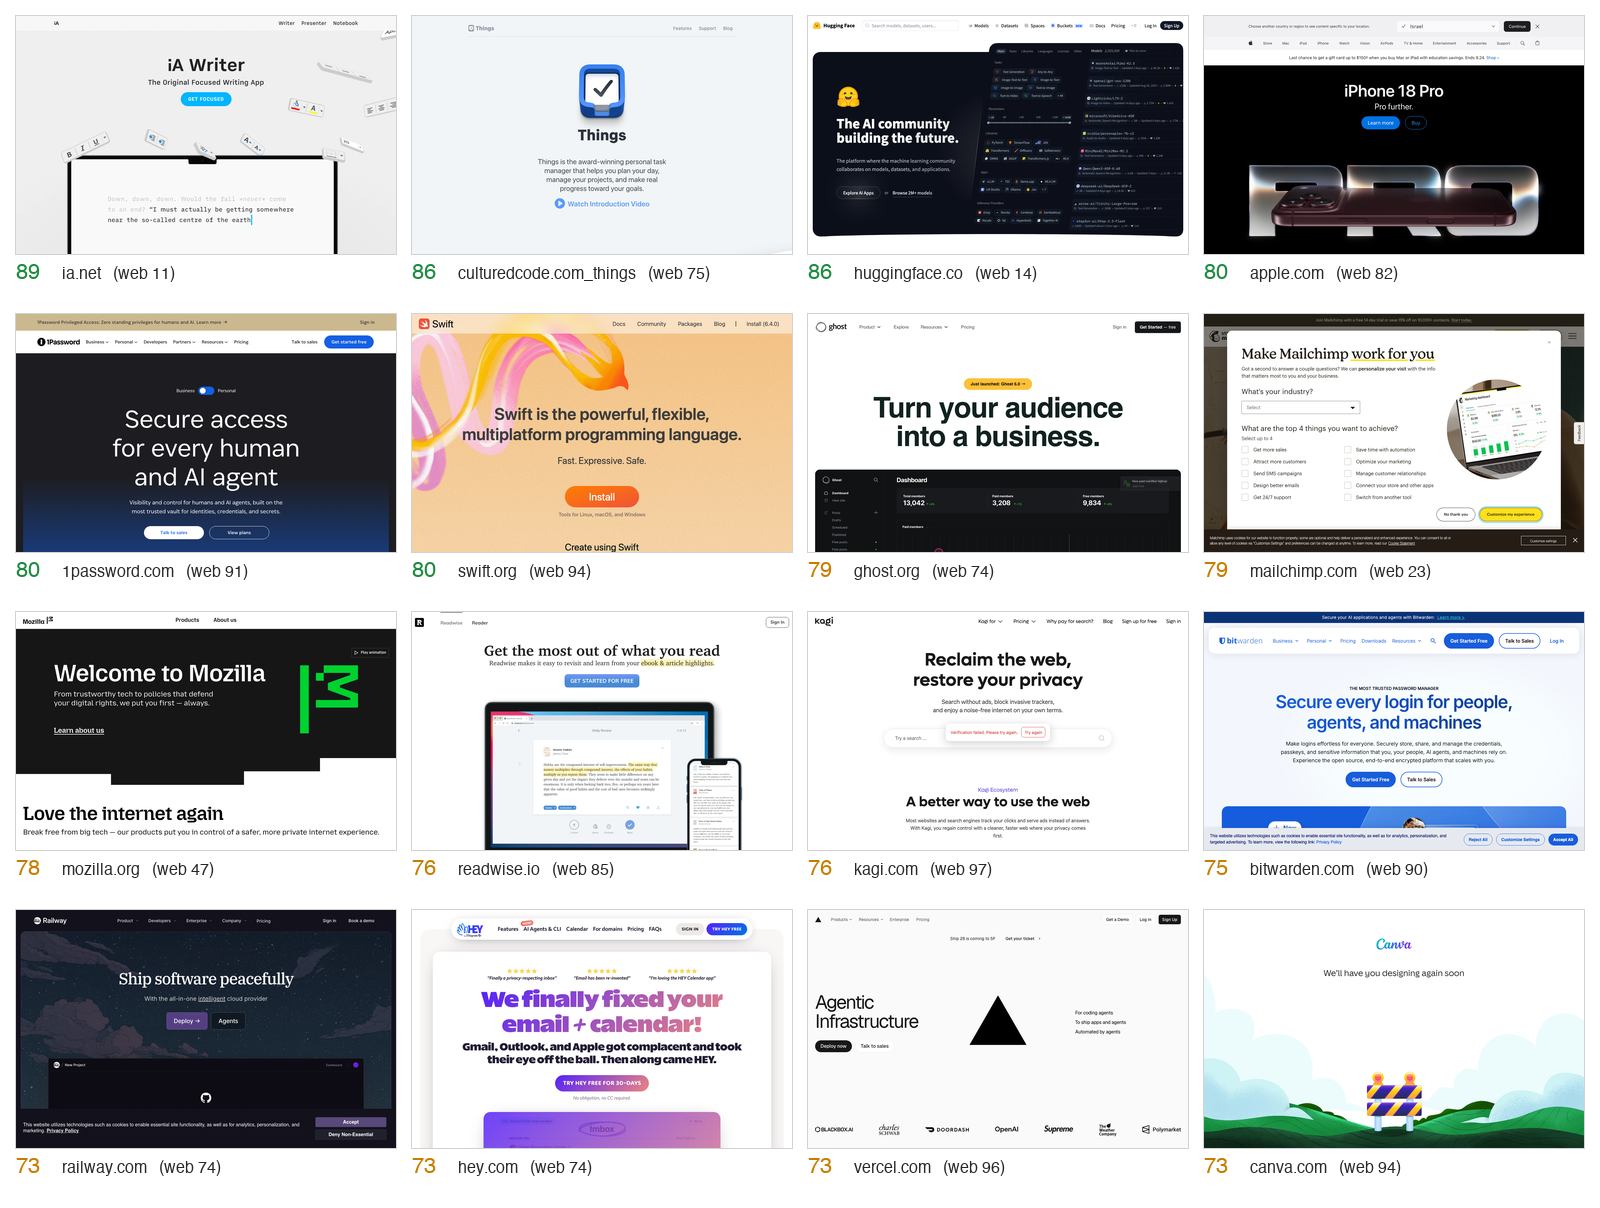
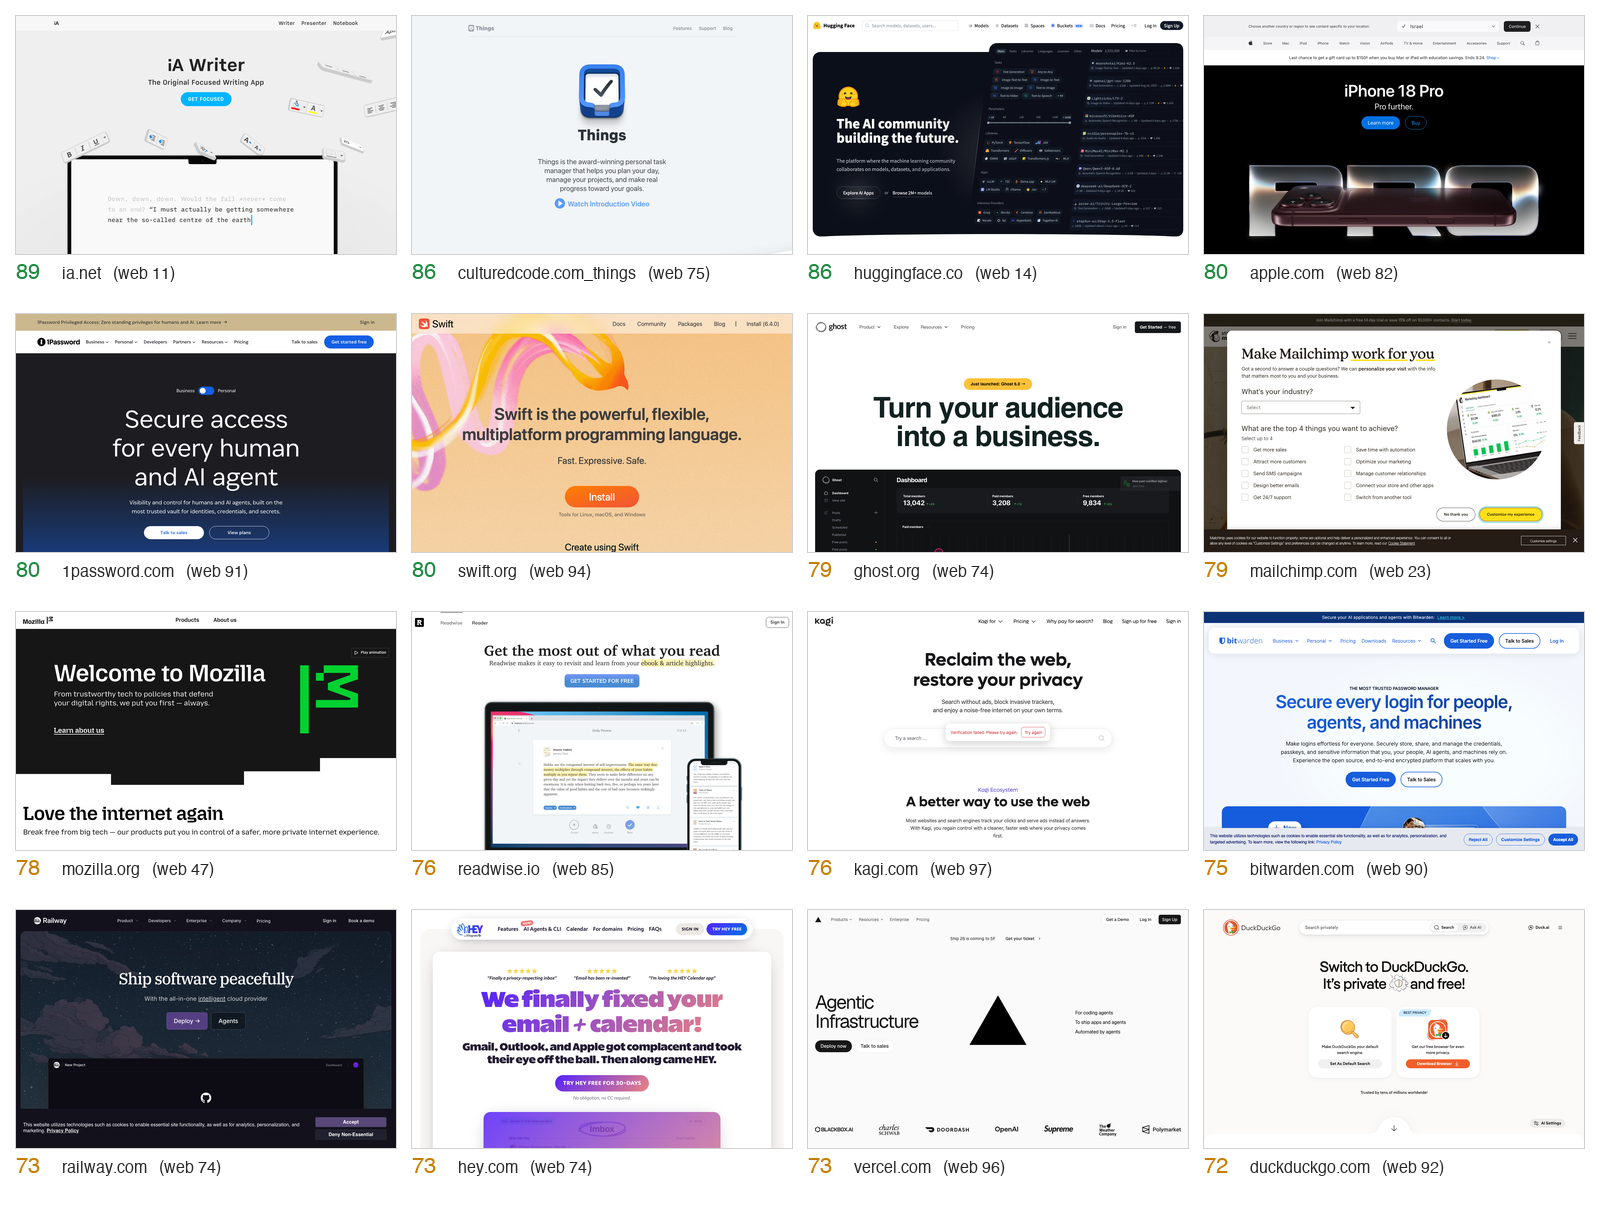
0.4.1: MCP stdio is UTF-8 on every platform; hall of fame drops a maintenance-page capture

Changed region(s): [[0.75, 0.7657, 1.0, 0.9801]]

diff --git a/demo/hall_of_fame.py b/demo/hall_of_fame.py
@@ -50,6 +50,7 @@ SKIP = {
     "medium.com": "bot wall ('you have been blocked')", "unsplash.com": "bot wall ('access denied')",
     "behance.net": "rate-limit page", "porsche.com_international": "consent dialog over the page",
     "awwwards.com": "consent dialog over the page", "openai.com": "blank capture",
+    "canva.com": "maintenance page",
 }
 COLS, TW, TH, PAD, LABEL_H, TOP_N = 4, 380, 238, 16, 44, 16
 FONTS = ["/System/Library/Fonts/Helvetica.ttc", "/usr/share/fonts/truetype/dejavu/DejaVuSans.ttf", "C:/Windows/Fonts/arial.ttf"]

diff --git a/beautiful/mcp_server.py b/beautiful/mcp_server.py
@@ -195,6 +195,9 @@ def _error(mid, code, message):
 
 
 def main() -> int:
+    for stream in (sys.stdin, sys.stdout):  # MCP is JSON over stdio: always UTF-8, whatever the console codepage
+        if hasattr(stream, "reconfigure"):
+            stream.reconfigure(encoding="utf-8", errors="replace")
     out = sys.stdout
     for line in sys.stdin:
         line = line.strip()

diff --git a/beautiful/__init__.py b/beautiful/__init__.py
@@ -3,4 +3,4 @@ from .core import beauty, beauty_score, WEIGHTS, MODES
 from .symmetry import symmetry_score, symmetry_report
 
 __all__ = ["beauty", "beauty_score", "symmetry_score", "symmetry_report", "WEIGHTS", "MODES"]
-__version__ = "0.4.0"
+__version__ = "0.4.1"

diff --git a/demo/results_hall_of_fame.md b/demo/results_hall_of_fame.md
@@ -1,4 +1,4 @@
-Rendered 2026-09-19 with headless Chromium at 1280×800 (`beautiful.render`), 72 of 79 candidates loaded. Sorted by the `ui` formula; `web` is the calibrated model.
+Rendered 2026-09-19 with headless Chromium at 1280×800 (`beautiful.render`), 71 of 79 candidates loaded. Sorted by the `ui` formula; `web` is the calibrated model.
 
 | ui | web | site | composition | alignment | simplicity | whitespace | harmony | colorfulness | contrast |
 |---:|---:|---|---:|---:|---:|---:|---:|---:|---:|
@@ -17,7 +17,6 @@ Rendered 2026-09-19 with headless Chromium at 1280×800 (`beautiful.render`), 72
 | **73** | 74 | railway.com | 0.69 | 0.36 | 0.51 | 0.87 | 0.94 | 0.89 | 0.88 |
 | **73** | 74 | hey.com | 0.77 | 0.30 | 0.34 | 0.92 | 0.86 | 0.83 | 1.00 |
 | **73** | 96 | vercel.com | 0.76 | 0.17 | 0.94 | 0.11 | 1.00 | 0.73 | 1.00 |
-| **73** | 94 | canva.com | 0.68 | 0.26 | 0.77 | 0.66 | 0.80 | 0.91 | 0.74 |
 | **72** | 92 | duckduckgo.com | 0.74 | 0.21 | 0.87 | 0.13 | 1.00 | 0.98 | 1.00 |
 | **70** | 94 | clerk.com | 0.78 | 0.17 | 0.60 | 0.36 | 1.00 | 0.78 | 1.00 |
 | **69** | 90 | loom.com | 0.77 | 0.17 | 0.23 | 0.97 | 0.91 | 0.69 | 1.00 |
@@ -75,4 +74,4 @@ Rendered 2026-09-19 with headless Chromium at 1280×800 (`beautiful.render`), 72
 | **27** | 100 | remix.run | 0.55 | 0.12 | 0.00 | 0.14 | 0.82 | 0.56 | 0.74 |
 | **25** | 85 | posthog.com | 0.33 | 0.24 | 0.02 | 0.01 | 0.84 | 0.90 | 1.00 |
 
-Skipped (the capture was not the page): medium.com (bot wall ('you have been blocked')), unsplash.com (bot wall ('access denied')), behance.net (rate-limit page), porsche.com_international (consent dialog over the page), awwwards.com (consent dialog over the page), openai.com (blank capture)
+Skipped (the capture was not the page): medium.com (bot wall ('you have been blocked')), unsplash.com (bot wall ('access denied')), behance.net (rate-limit page), porsche.com_international (consent dialog over the page), awwwards.com (consent dialog over the page), openai.com (blank capture), canva.com (maintenance page)

diff --git a/CHANGELOG.md b/CHANGELOG.md
@@ -1,5 +1,10 @@
 # Changelog
 
+## 0.4.1 — 2026-09-19
+
+- MCP server speaks UTF-8 on stdio regardless of the console codepage (Windows fix).
+- Hall of fame: Canva's maintenance-page capture dropped.
+
 ## 0.4.0 — 2026-09-19
 
 - **Lint code, not just screenshots.** `beautiful index.html`, `beautiful https://…` and the
